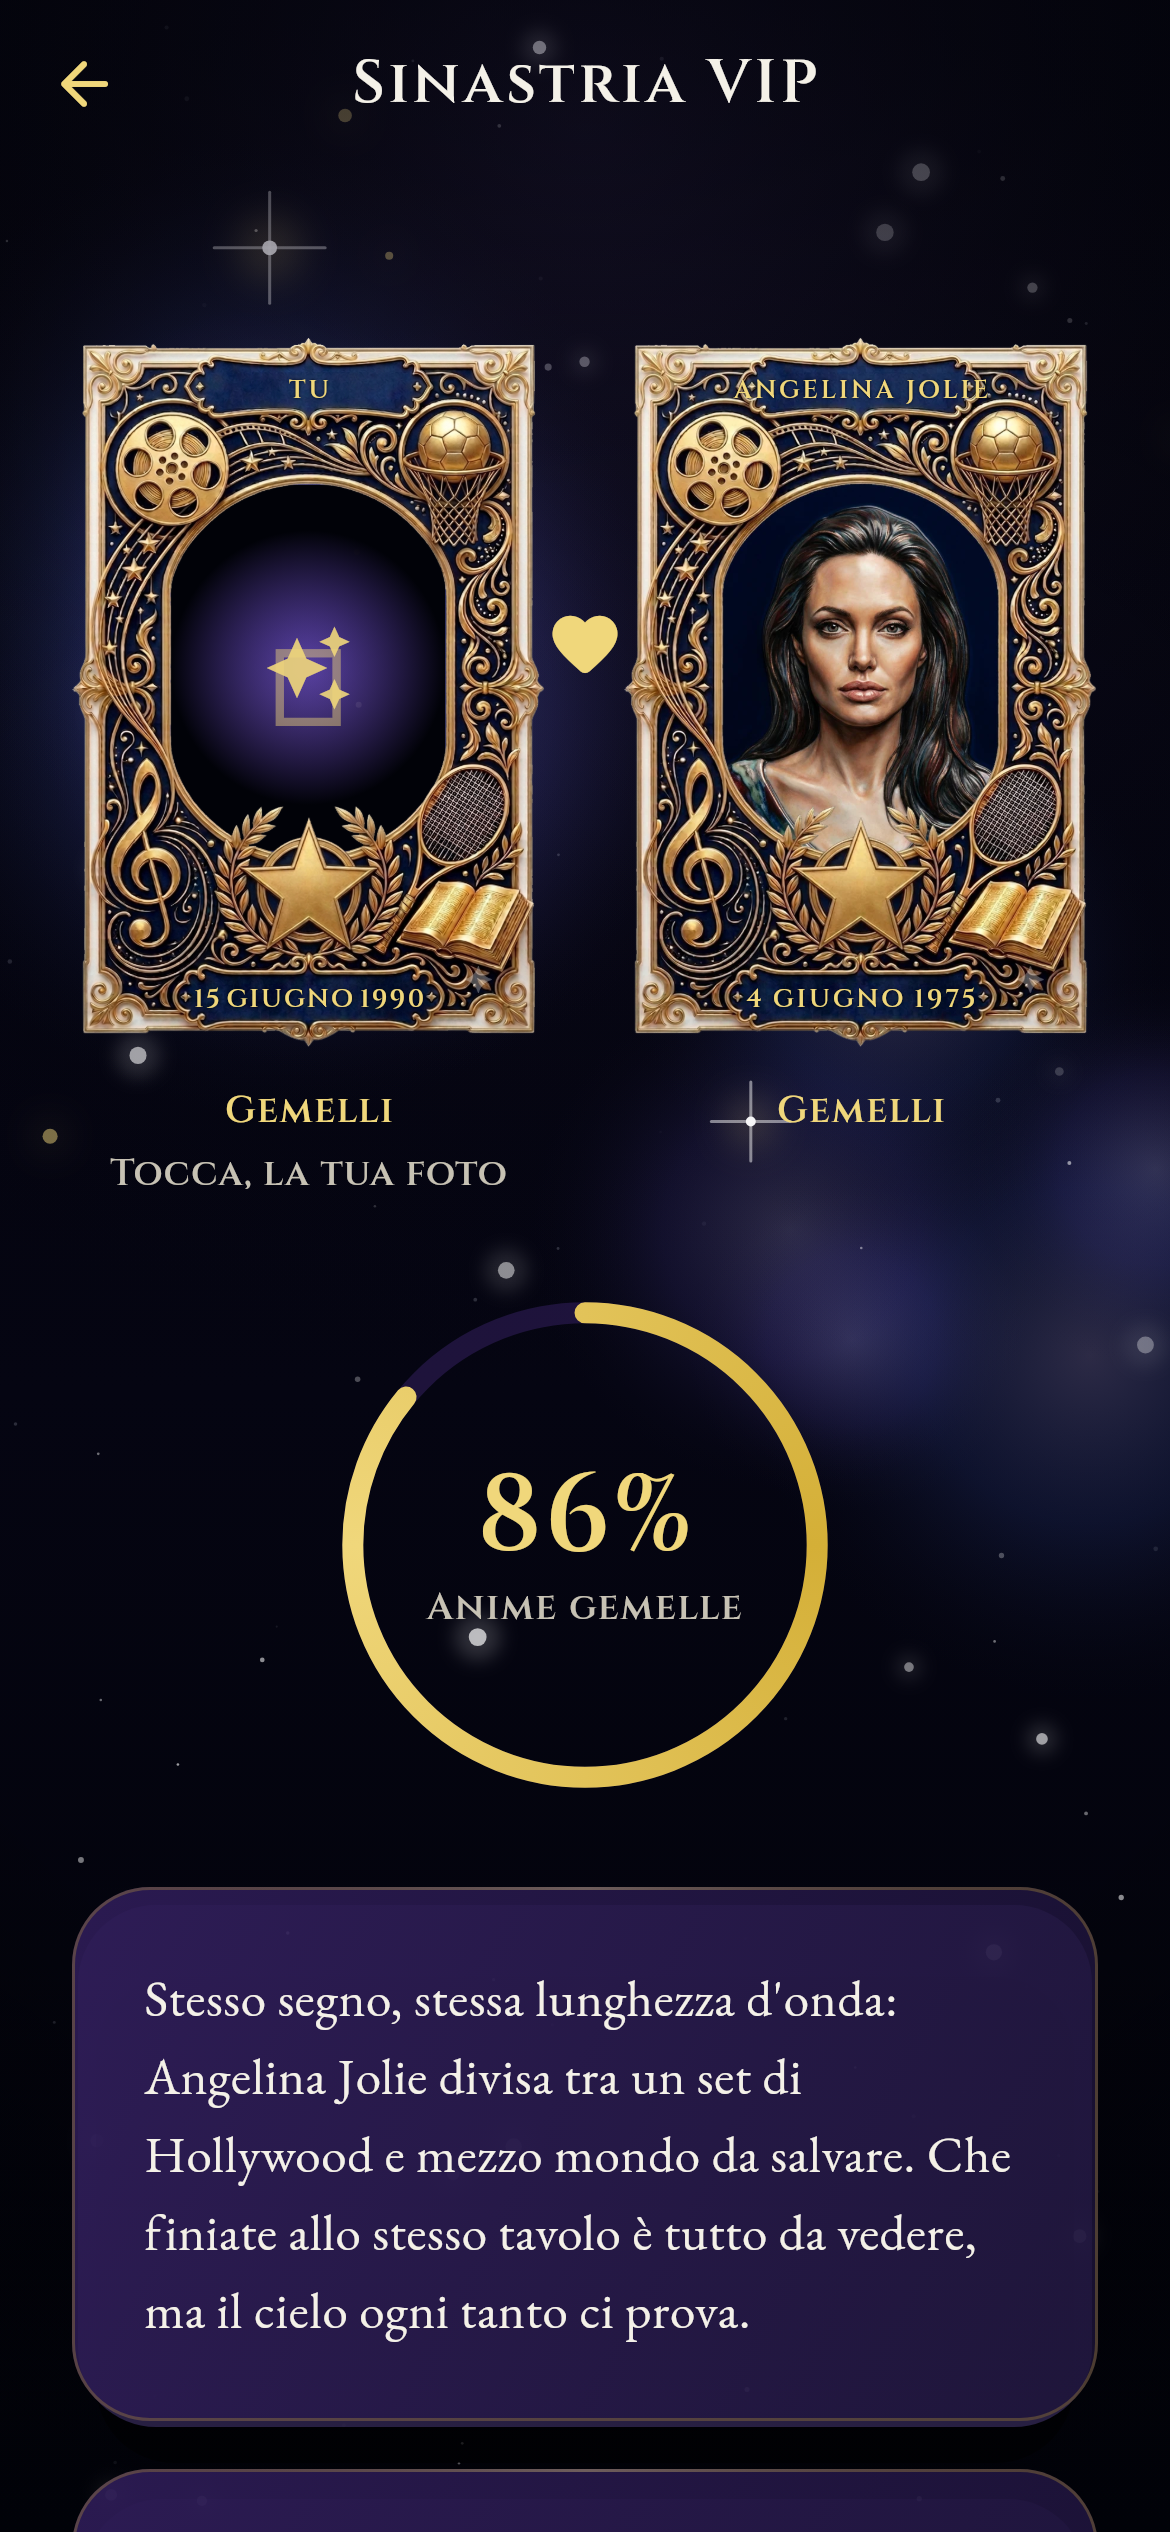
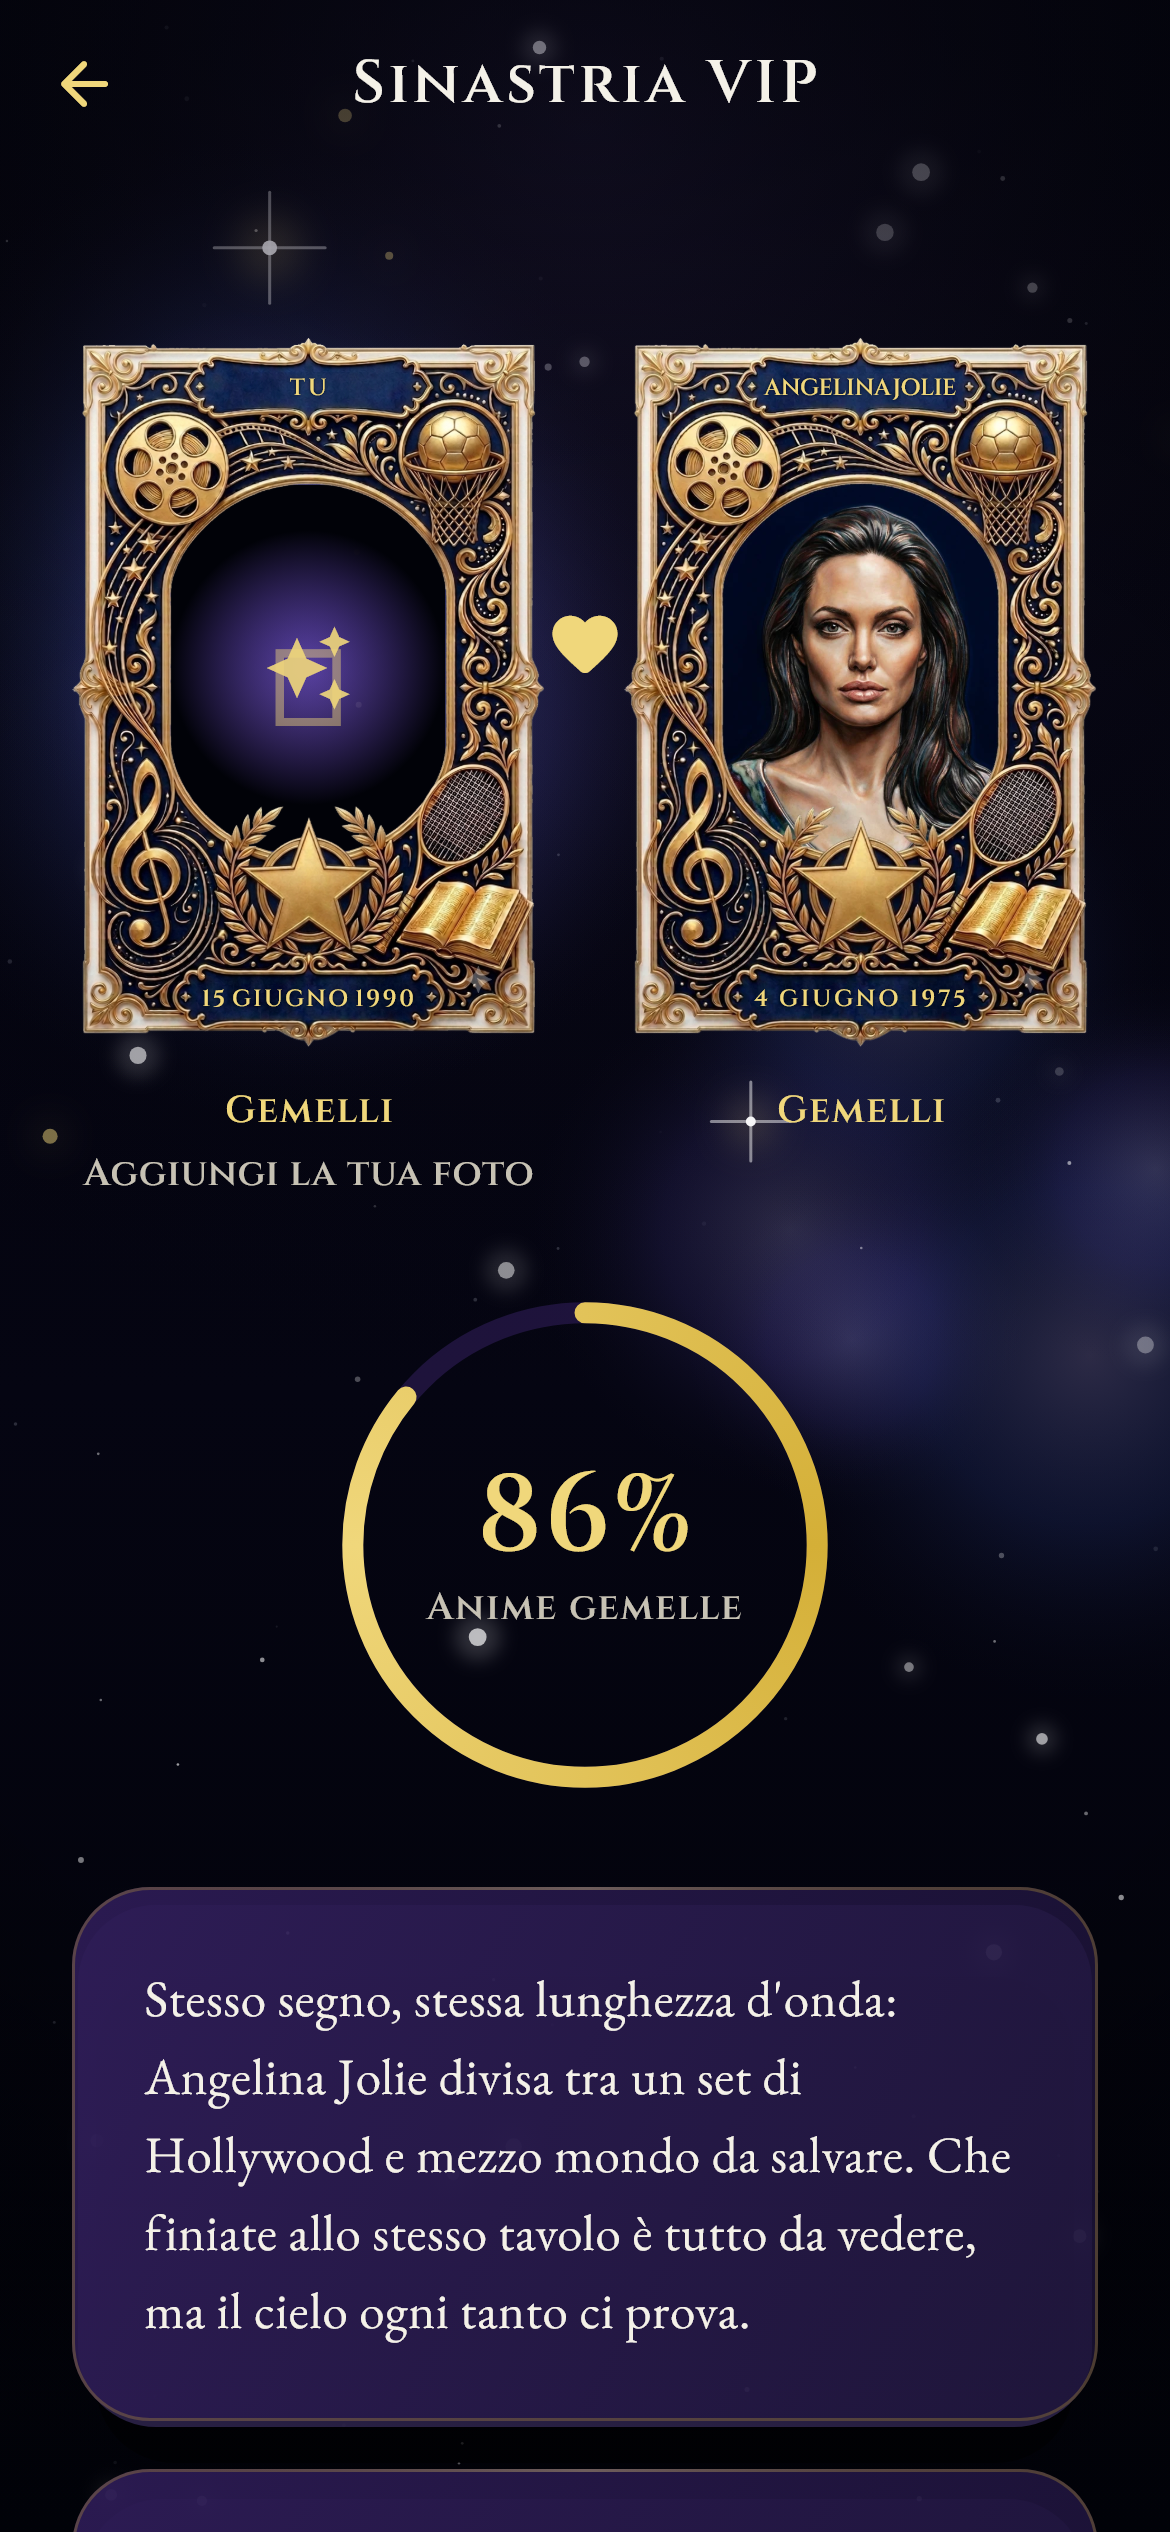
fix: cartigli VIP tarati sulla banda blu reale misurata, testo mai sull'oro, invito foto aggiungi/modifica

diff --git a/test/cartiglio_fit_test.dart b/test/cartiglio_fit_test.dart
@@ -6,9 +6,10 @@ import 'package:flutter/material.dart';
 import 'package:flutter/services.dart';
 import 'package:flutter_test/flutter_test.dart';
 
-/// Il testo dei cartigli VIP entra sempre su una riga, dentro la larghezza del
-/// cartiglio, senza troncare, andare a capo o sbordare. Qui si verifica la scala
-/// progressiva coi casi peggiori, misurando col font reale Cinzel.
+/// Il testo dei cartigli VIP entra sempre su una riga, dentro la banda blu
+/// piatta reale della cornice, senza toccare l'oro ai lati ne sopra e sotto,
+/// senza troncare ne andare a capo. L'area consentita e' la banda misurata
+/// dall'immagine (`VipFrame.flatBand*`), non un rettangolo largo indovinato.
 void main() {
   TestWidgetsFlutterBinding.ensureInitialized();
 
@@ -51,62 +52,87 @@ void main() {
     return tp.height;
   }
 
-  void expectFits(String text, double maxWidth, double maxHeight) {
+  // Un polo rappresentativo, piu' stretto di quello a schermo, dal lato
+  // conservativo. La cornice e' 2:3.
+  const frameWidth = 140.0;
+  const frameHeight = frameWidth / VipFrame.aspect;
+
+  Rect pxOf(Rect n) => Rect.fromLTRB(
+      n.left * frameWidth, n.top * frameHeight, n.right * frameWidth, n.bottom * frameHeight);
+
+  // Il testo, centrato nel cartiglio, non deve mai uscire dalla banda blu piatta
+  // (il confine dell'oro): ne ai lati ne sopra e sotto.
+  void expectInsideBand(
+      String text, Rect cartiglioN, Rect flatBandN) {
+    final cart = pxOf(cartiglioN);
+    final band = pxOf(flatBandN);
+
+    // Il cartiglio del testo sta dentro la banda piatta, con margine.
+    expect(cart.left, greaterThanOrEqualTo(band.left - 1e-6),
+        reason: 'cartiglio sfora l\'oro a sinistra');
+    expect(cart.right, lessThanOrEqualTo(band.right + 1e-6),
+        reason: 'cartiglio sfora l\'oro a destra');
+    expect(cart.top, greaterThanOrEqualTo(band.top - 1e-6),
+        reason: 'cartiglio sfora l\'oro in alto');
+    expect(cart.bottom, lessThanOrEqualTo(band.bottom + 1e-6),
+        reason: 'cartiglio sfora l\'oro in basso');
+
     final fit = resolveCartiglioFit(
         text: text.toUpperCase(),
         base: base,
-        maxWidth: maxWidth,
-        maxHeight: maxHeight);
+        maxWidth: cart.width,
+        maxHeight: cart.height);
     final w = measuredWidth(text, fit);
     final h = measuredHeight(text, fit);
-    // Entra in larghezza, una riga, con un filo di tolleranza sub-pixel.
-    expect(w, lessThanOrEqualTo(maxWidth + 0.5),
-        reason: '"$text" largo $w oltre $maxWidth (fit: fs ${fit.fontSize.toStringAsFixed(1)} ls ${fit.letterSpacing.toStringAsFixed(2)} ws ${fit.wordSpacing.toStringAsFixed(2)} xs ${fit.scaleX.toStringAsFixed(2)})');
-    expect(h, lessThanOrEqualTo(maxHeight + 0.5),
-        reason: '"$text" alto $h oltre $maxHeight');
+
+    // Il testo entra nel cartiglio, su una riga.
+    expect(w, lessThanOrEqualTo(cart.width + 0.5),
+        reason: '"$text" largo $w oltre ${cart.width} (fs ${fit.fontSize.toStringAsFixed(1)} ls ${fit.letterSpacing.toStringAsFixed(2)} ws ${fit.wordSpacing.toStringAsFixed(2)} xs ${fit.scaleX.toStringAsFixed(2)})');
+    expect(h, lessThanOrEqualTo(cart.height + 0.5),
+        reason: '"$text" alto $h oltre ${cart.height}');
+
+    // Il testo centrato nel cartiglio resta dentro la banda blu, non sull'oro.
+    final cx = cart.center.dx;
+    expect(cx - w / 2, greaterThanOrEqualTo(band.left - 0.5),
+        reason: '"$text" tocca l\'oro a sinistra');
+    expect(cx + w / 2, lessThanOrEqualTo(band.right + 0.5),
+        reason: '"$text" tocca l\'oro a destra');
+
     // I limiti della scala progressiva sono rispettati.
     expect(fit.scaleX, greaterThanOrEqualTo(0.80 - 1e-6));
     expect(fit.letterSpacing, greaterThanOrEqualTo(-1.0 - 1e-6));
     expect(fit.letterSpacing, lessThanOrEqualTo(1.0 + 1e-6));
   }
 
-  // Dimensioni reali dei due cartigli a una larghezza di polo rappresentativa,
-  // piu' stretta di quella a schermo, per stare dal lato conservativo.
-  const frameWidth = 140.0;
-  const frameHeight = frameWidth / VipFrame.aspect;
-  final nomeW = (VipFrame.cartiglioNome.right - VipFrame.cartiglioNome.left) *
-      frameWidth;
-  final nomeH = (VipFrame.cartiglioNome.bottom - VipFrame.cartiglioNome.top) *
-      frameHeight;
-  final dataW = (VipFrame.cartiglioData.right - VipFrame.cartiglioData.left) *
-      frameWidth;
-  final dataH = (VipFrame.cartiglioData.bottom - VipFrame.cartiglioData.top) *
-      frameHeight;
-
-  group('Nomi nel cartiglio alto, sempre su una riga', () {
+  group('Nomi nel cartiglio alto, dentro la banda blu', () {
     for (final name in const [
       'ANGELINA JOLIE',
       'SCARLETT JOHANSSON',
       'TIMOTHEE CHALAMET',
       'TU',
     ]) {
-      test('"$name" entra', () => expectFits(name, nomeW, nomeH));
+      test('"$name" resta sul blu', () {
+        expectInsideBand(name, VipFrame.cartiglioNome, VipFrame.flatBandNome);
+      });
     }
   });
 
-  group('Date nel cartiglio basso, sempre su una riga', () {
+  group('Date nel cartiglio basso, dentro la banda blu', () {
     for (final date in const [
       '15 SETTEMBRE 1990',
       '30 SETTEMBRE 1964',
       '4 GIUGNO 1975',
     ]) {
-      test('"$date" entra', () => expectFits(date, dataW, dataH));
+      test('"$date" resta sul blu', () {
+        expectInsideBand(date, VipFrame.cartiglioData, VipFrame.flatBandData);
+      });
     }
   });
 
   test('Un testo corto non viene compresso senza motivo', () {
+    final cart = pxOf(VipFrame.cartiglioNome);
     final fit = resolveCartiglioFit(
-        text: 'TU', base: base, maxWidth: nomeW, maxHeight: nomeH);
+        text: 'TU', base: base, maxWidth: cart.width, maxHeight: cart.height);
     expect(fit.scaleX, 1.0);
     expect(fit.letterSpacing, 1.0);
     expect(fit.wordSpacing, 0.0);

diff --git a/lib/design_system/components/vip_frame.dart b/lib/design_system/components/vip_frame.dart
@@ -26,12 +26,25 @@ class VipFrame {
   /// normalizzati sull'alpha della cornice).
   static const Rect window = Rect.fromLTRB(0.2087, 0.2089, 0.7877, 0.7239);
 
-  /// Cartiglio alto, per il nome per esteso. Larghezza presa dalla banda blu
-  /// piatta reale (x 0.162..0.821 nell'alpha), con un filo di margine interno.
-  static const Rect cartiglioNome = Rect.fromLTRB(0.185, 0.050, 0.815, 0.099);
+  // Le due bande blu piatte, misurate dall'alpha e dal colore di
+  // `assets/vip_cornice.webp`: sono le zone di blu uniforme fra le estremita'
+  // dorate ornate. Il testo dei cartigli vive dentro queste bande, con un
+  // margine di sicurezza verso l'interno, cosi' non tocca mai l'oro.
+  //
+  // Banda piatta misurata: nome x 0.278..0.719 y 0.044..0.100; data x
+  // 0.251..0.744 y 0.903..0.960. I rettangoli qui sotto sono gia' rientrati.
 
-  /// Cartiglio basso, per la data di nascita (banda x 0.249..0.742 reale).
-  static const Rect cartiglioData = Rect.fromLTRB(0.255, 0.906, 0.745, 0.956);
+  /// Cartiglio alto, per il nome per esteso.
+  static const Rect cartiglioNome = Rect.fromLTRB(0.296, 0.050, 0.701, 0.095);
+
+  /// Cartiglio basso, per la data di nascita.
+  static const Rect cartiglioData = Rect.fromLTRB(0.271, 0.909, 0.724, 0.954);
+
+  /// Banda blu piatta reale del cartiglio alto (senza margine), confine dell'oro.
+  static const Rect flatBandNome = Rect.fromLTRB(0.278, 0.044, 0.719, 0.100);
+
+  /// Banda blu piatta reale del cartiglio basso (senza margine), confine dell'oro.
+  static const Rect flatBandData = Rect.fromLTRB(0.251, 0.903, 0.744, 0.960);
 }
 
 /// Un ritratto dentro la cornice VIP, col nome nel cartiglio alto e la data nel

diff --git a/lib/features/synastry/sinastria_vip_screen.dart b/lib/features/synastry/sinastria_vip_screen.dart
@@ -180,7 +180,9 @@ class _SinastriaVipScreenState extends State<SinastriaVipScreen>
                 key: const Key('sinastria_pole_user'),
                 palette: palette,
                 sign: _userSign,
-                hint: _photo.hasPhoto ? 'Tocca per cambiare' : 'Tocca, la tua foto',
+                hint: _photo.hasPhoto
+                    ? 'Modifica la tua foto'
+                    : 'Aggiungi la tua foto',
                 onTap: _openPhotoSheet,
                 portrait: VipFramedPortrait(
                   palette: palette,

diff --git a/docs/STATO_VIVO.md b/docs/STATO_VIVO.md
@@ -41,7 +41,7 @@ Legenda stato: prodotto (esiste), agganciato (collegato e gira nell'app), verifi
 - Onboarding Il Risveglio: fatto (carta natale ornata, cielo di nascita J2000, cosmo profondo, risonanza, rito del soffio, ponte identita' con NatalFacts, accenti corretti a ce5b75e). Prodotto e agganciato; da riconfermare a video al prossimo checkpoint visivo.
 - Cosmo profondo: fatto. Santuario Il Cerchio: fatto nella messa in scena base. Prodotto e agganciato; da riconfermare a video al prossimo checkpoint visivo.
 - Doni del Giorno: Alba e Soffio validati; Oracolo, Runa, Sogno presenti.
-- Funzioni live nel function_shelf: Sinastria VIP, Oracolo del Giorno, Runa del Tramonto, Meditazione. Non ancora live: Stesa a Tre Carte, Test Archetipo, Costellazione del Viso. La Sinastria VIP e' stata rifatta a video: cosmo profondo di sfondo pulito (senza le figure di costellazione a linee, che finivano coperte dalle cornici: restano stelle, nebulose, parallasse e stella cadente, il cosmo con `showZodiac` a falso), i due volti nella cornice VIP vera col cuore, cerchio grande con percentuale animata ed etichetta di fascia, responso composto dal Corpus `docs/corpus/sinastria_testi.md` (relazione tra i segni piu' carattere del VIP per stem piu' chiusura ironica) prima delle barre, quattro barre deterministiche per coppia (amore, intesa mentale, scintille, incontro volutamente minimo 0,2..4 per cento con micro battuta), il cerchio come sintesi pesata delle prime tre. La cornice e' quella definitiva e curata: il ritratto VIP mostra la sua cornice originale gia' incisa, senza aggiunte; la foto dell'utente entra nella STESSA cornice, bundlata come `assets/vip_cornice.webp` (ricavata da `pilot-references/Cornice-Vip-Test-2.png`, la stessa che `vip.py` compone dietro i ritratti) con finestra e cartigli combacianti, misure in `lib/design_system/components/vip_frame.dart`. Nessun arco generico inventato: la vecchia `vip_arch_frame.dart` e' stata rimossa. I cartigli vuoti sono riempiti a runtime, nome per esteso in alto e data di nascita in basso, per il VIP i suoi e per l'utente i suoi. Il testo del cartiglio non tronca, non va a capo e non sborda mai: il widget `CartiglioText` in `vip_frame.dart` misura col `TextPainter` e adatta il testo alla larghezza della banda con una scala progressiva, nell'ordine spazio tra le parole, spazio tra le lettere (fino a circa -1), restringimento orizzontale (scala X fino a 0,80) e solo come estremo la dimensione del font (al massimo meno 15 per cento), sempre su una riga, centrato, maiuscolo e oro. I casi peggiori (SCARLETT JOHANSSON, TIMOTHEE CHALAMET, date come 15 settembre 1990) sono coperti da `test/cartiglio_fit_test.dart`. Foto utente opzionale con consenso esplicito a fotocamera o galleria (image_picker, stringhe permesso in Info.plist), tenuta solo in memoria, filtro dorato e cosmico, mai caricata. Tasto Condividi che genera la card oro e blu di Medora come PNG e apre il foglio social (share_plus). Ritratti ingranditi. Accenti veri ovunque nei testi a video, con un test dedicato (`test/sinastria_accents_test.dart`) che cade se una stringa a video usa un apostrofo al posto dell'accento. Logica in `lib/core/synastry/synastry_report.dart`, card in `lib/features/synastry/sinastria_share_card.dart`. La vecchia classe `Synastry` per elemento e' stata sostituita da `SynastryReport`. La fonte macchina di questo stato e' `docs/stato_funzioni.json`, allineata al codice da `test/stato_funzioni_test.dart` nel verde della CI: se il manifest e `lib/core/santuario/function_shelf.dart` divergono, la spunta verde cade.
+- Funzioni live nel function_shelf: Sinastria VIP, Oracolo del Giorno, Runa del Tramonto, Meditazione. Non ancora live: Stesa a Tre Carte, Test Archetipo, Costellazione del Viso. La Sinastria VIP e' stata rifatta a video: cosmo profondo di sfondo pulito (senza le figure di costellazione a linee, che finivano coperte dalle cornici: restano stelle, nebulose, parallasse e stella cadente, il cosmo con `showZodiac` a falso), i due volti nella cornice VIP vera col cuore, cerchio grande con percentuale animata ed etichetta di fascia, responso composto dal Corpus `docs/corpus/sinastria_testi.md` (relazione tra i segni piu' carattere del VIP per stem piu' chiusura ironica) prima delle barre, quattro barre deterministiche per coppia (amore, intesa mentale, scintille, incontro volutamente minimo 0,2..4 per cento con micro battuta), il cerchio come sintesi pesata delle prime tre. La cornice e' quella definitiva e curata: il ritratto VIP mostra la sua cornice originale gia' incisa, senza aggiunte; la foto dell'utente entra nella STESSA cornice, bundlata come `assets/vip_cornice.webp` (ricavata da `pilot-references/Cornice-Vip-Test-2.png`, la stessa che `vip.py` compone dietro i ritratti) con finestra e cartigli combacianti, misure in `lib/design_system/components/vip_frame.dart`. Nessun arco generico inventato: la vecchia `vip_arch_frame.dart` e' stata rimossa. I cartigli vuoti sono riempiti a runtime, nome per esteso in alto e data di nascita in basso, per il VIP i suoi e per l'utente i suoi. Il testo del cartiglio non tronca, non va a capo, non sborda mai e non tocca l'oro: l'area di testo e' la banda blu piatta reale, misurata dall'immagine `assets/vip_cornice.webp` (zona di blu uniforme fra le estremita' dorate, in orizzontale e in verticale) con un margine di sicurezza verso l'interno, nome x 0,296..0,701 e data x 0,271..0,724 (`VipFrame.cartiglioNome`/`cartiglioData`, con le bande grezze in `flatBandNome`/`flatBandData`). Il widget `CartiglioText` in `vip_frame.dart` misura col `TextPainter` e adatta il testo a quella banda con una scala progressiva, nell'ordine spazio tra le parole, spazio tra le lettere (fino a circa -1), restringimento orizzontale (scala X fino a 0,80) e solo come estremo la dimensione del font (al massimo meno 15 per cento), sempre su una riga, centrato, maiuscolo e oro. I casi peggiori (SCARLETT JOHANSSON, TIMOTHEE CHALAMET, date come 15 settembre 1990) sono coperti da `test/cartiglio_fit_test.dart`, che ricava l'area dalla banda blu reale e cade se il testo esce sull'oro. Foto utente opzionale con consenso esplicito a fotocamera o galleria (image_picker, stringhe permesso in Info.plist), tenuta solo in memoria, filtro dorato e cosmico, mai caricata. Tasto Condividi che genera la card oro e blu di Medora come PNG e apre il foglio social (share_plus). Ritratti ingranditi. Accenti veri ovunque nei testi a video, con un test dedicato (`test/sinastria_accents_test.dart`) che cade se una stringa a video usa un apostrofo al posto dell'accento. Logica in `lib/core/synastry/synastry_report.dart`, card in `lib/features/synastry/sinastria_share_card.dart`. La vecchia classe `Synastry` per elemento e' stata sostituita da `SynastryReport`. La fonte macchina di questo stato e' `docs/stato_funzioni.json`, allineata al codice da `test/stato_funzioni_test.dart` nel verde della CI: se il manifest e `lib/core/santuario/function_shelf.dart` divergono, la spunta verde cade.
 - Backend carta natale FreeAstroAPI: callable Firebase natalChart costruita (162b94b), con base URL gia' corretto a `https://api.freeastroapi.com` (340fd4a). Non ancora deployata: secret in Secret Manager, App Check e `firebase deploy --only functions` restano da fare a mano dal PC di Mauro.
 - Contenuti testuali: undici Corpus scritti nel Project, circa 620 voci verificate sulle tradizioni. Cinque Corpus ora modellati e in `docs/corpus/` e legati al codice (tarocchi con dritto e rovescio, rune con dritto e ombra, animali, cristalli, VIP). Manca la modellazione del dettaglio per singolo angelo.
 
